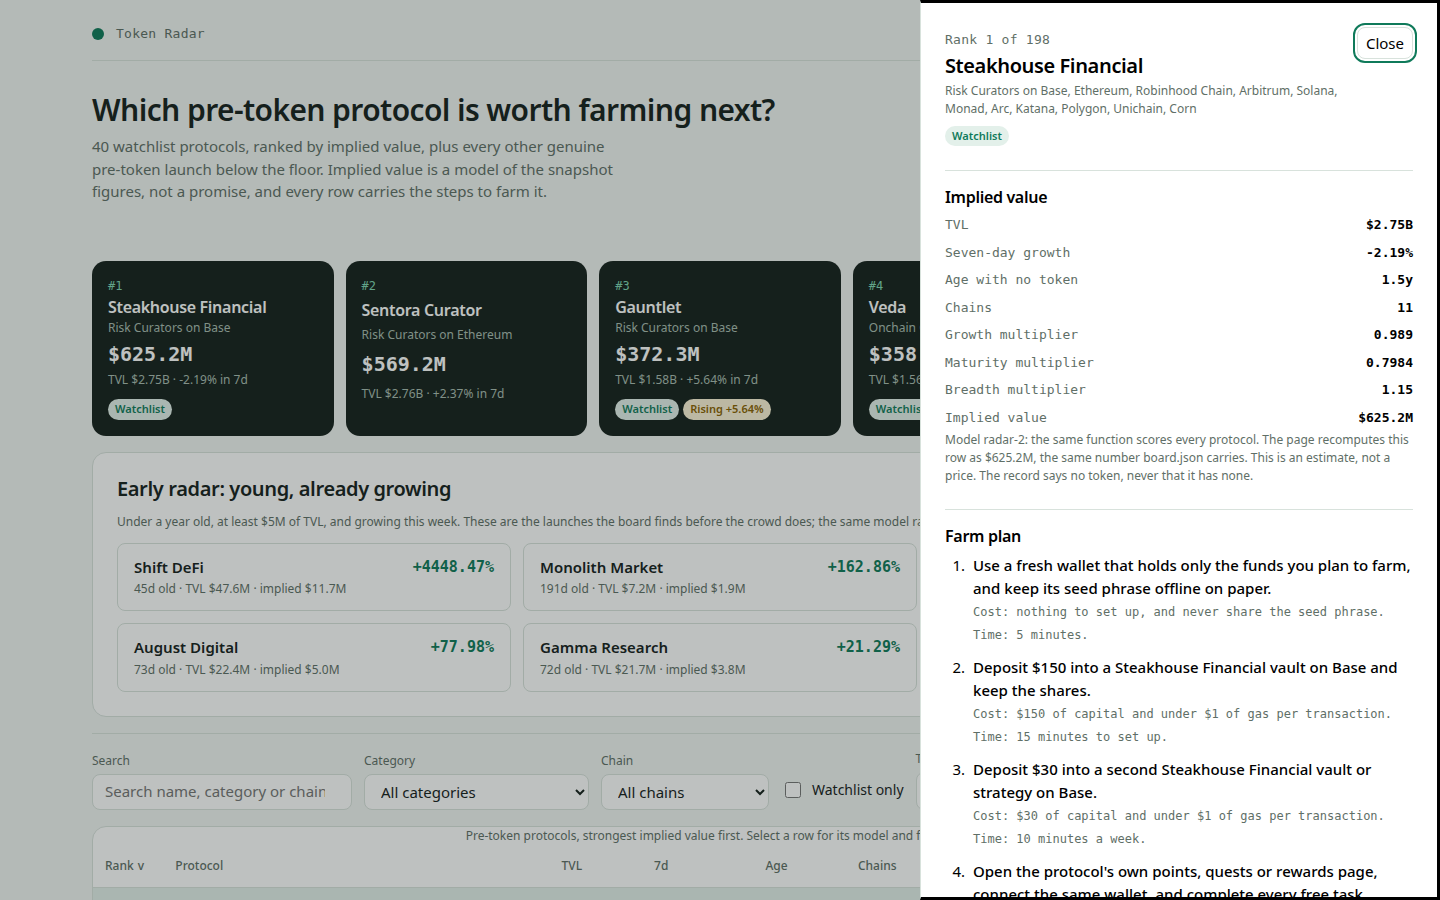
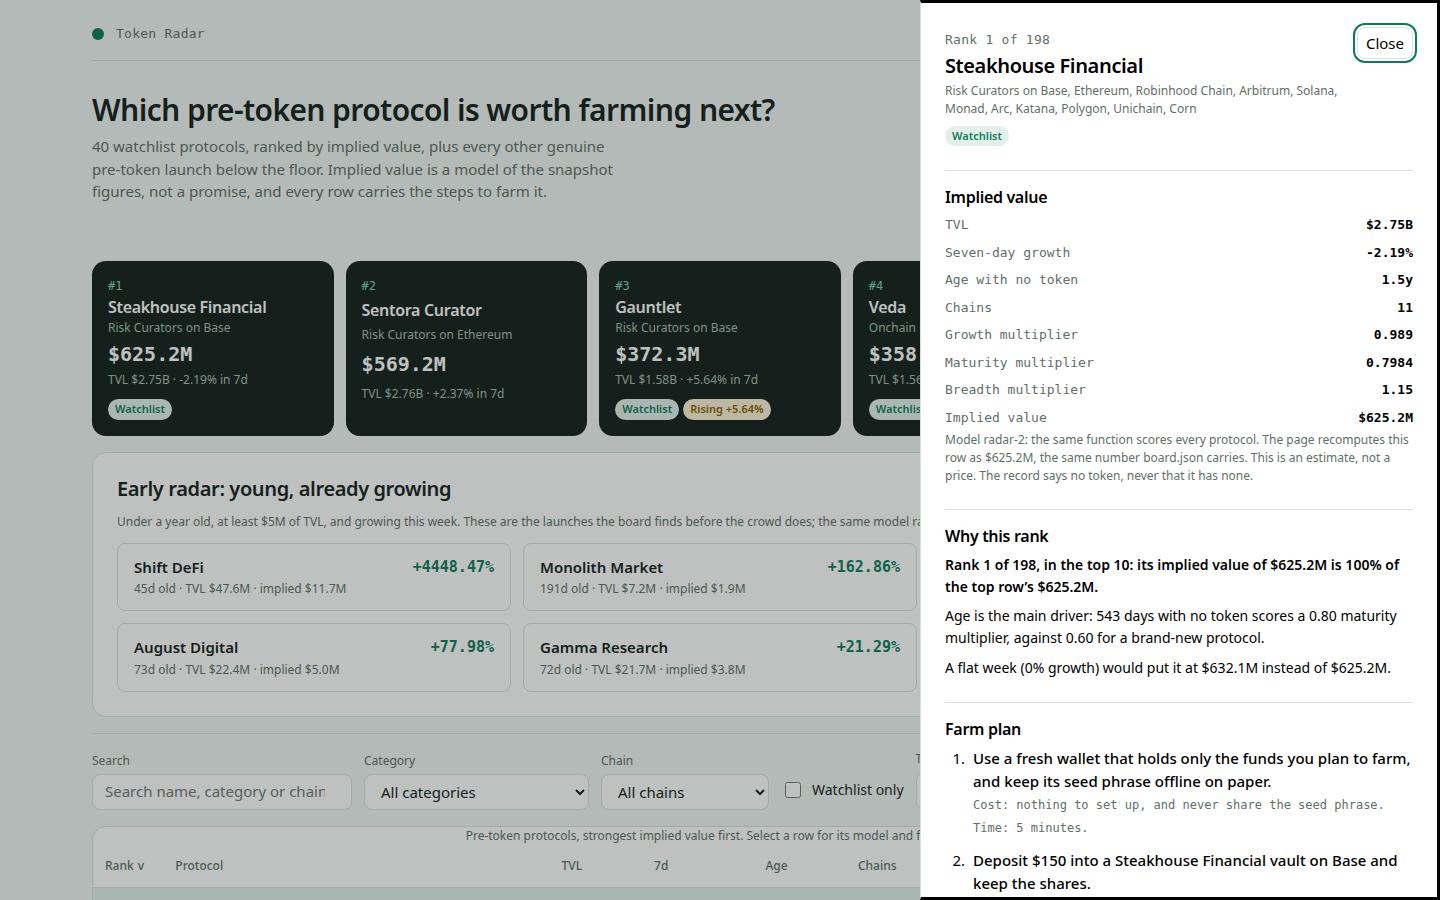
Rank story and fourth screenshot: explain each rank in the detail dialog
- lib/model.ts: add rankStory, the model's own derivation of why a row
  ranks where it does (position vs the top row, the multiplier furthest
  from its neutral point as the driver, and the flat-week counterfactual),
  plus usdShort for its figures. Scoring is untouched.
- dashboard/app.js: mirror rankStory in the page and show it as a
  'Why this rank' section in the detail dialog, between the implied
  value and the farm plan.
- dashboard/app.css: styles for the Why section.
- main.ts: note the rank story in the header; the screenshots error now
  asks for 3 or 4 images.
- screenshots/4-live.png: the live-token tab, taken from the real
  dashboard; 1-board, 2-detail and 3-filtered retaken from the new build.
  Board is byte-identical to the previous commit; all 7 local gate rows pass.

Changed region(s): [[0.6562, 0.5911, 0.9688, 1.0]]

diff --git a/lib/model.ts b/lib/model.ts
@@ -24,6 +24,12 @@
 // the longer, the more pent-up the launch. Chain breadth is how widely it is already distributed:
 // a protocol live on six chains reaches more farmers than one live on one. No protocol name is
 // ever special-cased: the same function scores every row, and the dashboard shows every factor.
+//
+// The model also explains each rank. rankStory turns one board row into plain sentences: where
+// the row sits against the top of the board, which of the three multipliers moves it most, and
+// what a flat week would do to its value. The dashboard mirrors that derivation in its own code
+// (dashboard/app.js), from the same row figures, so the story the reader sees is the model's own
+// arithmetic in words, never a hand-written note about a name.
 
 /** The snapshot's protocol entry: exactly the ten fields the sealed input carries. */
 export interface SnapshotProtocol {
@@ -202,6 +208,71 @@ export function impliedValue(protocol: SnapshotProtocol, asOf: string, model: Mo
   return { implied, growthPct, growthMult, maturityMult, breadthMult, age };
 }
 
+/** A dollar amount in the short form the board and the story use: $625.2M, $727K, $42. */
+export function usdShort(n: number): string {
+  if (!Number.isFinite(n)) return 'n/a';
+  if (Math.abs(n) >= 1e9) return `$${(n / 1e9).toFixed(2)}B`;
+  if (Math.abs(n) >= 1e6) return `$${(n / 1e6).toFixed(1)}M`;
+  if (Math.abs(n) >= 1e3) return `$${Math.round(n / 1e3)}K`;
+  return `$${Math.round(n)}`;
+}
+
+/**
+ * Why one board row ranks where it does, in plain sentences derived from the row's own figures.
+ * The story has three parts, and every number in it is recomputed here from the row, never typed
+ * in by hand:
+ *
+ * 1. Position: the rank against the board's size, and the row's implied value as a share of the
+ *    top row's. A reader who only reads this line knows whether the row leads the board or trails it.
+ * 2. Driver: of the three multipliers, the one furthest from its own neutral point is the
+ *    reason the row sits where it does: growth and breadth against 1.00, maturity against its
+ *    0.60 floor. The sentence states the direction the factor actually runs, so a maturity
+ *    below 1.00 is never called a lift.
+ * 3. Counterfactual: the value the same row would carry after a flat week, with growth set to 0,
+ *    which is the implied value divided by the growth multiplier. When growth already is flat the
+ *    sentence says so instead of inventing a change.
+ *
+ * The dashboard mirrors this function in plain JavaScript (dashboard/app.js rankStory), from the
+ * same row fields, so the story a reader sees in the detail dialog is this derivation, not a copy.
+ */
+export function rankStory(row: BoardRow, topImplied: number, boardSize: number): string[] {
+  const m = row.model;
+  const share = topImplied > 0 ? row.implied_value_usd / topImplied : 0;
+  const sharePct = Math.round(share * 100);
+  const place = row.rank <= 10 ? 'in the top 10' : row.rank * 4 <= boardSize ? 'in the top quarter' : row.rank * 2 <= boardSize ? 'in the top half' : 'in the lower half';
+  const first = `Rank ${row.rank} of ${boardSize}, ${place}: its implied value of ${usdShort(row.implied_value_usd)} is ${sharePct}% of the top row's ${usdShort(topImplied)}.`;
+  // Each multiplier's lift, each against its own neutral point: growth and breadth against 1.00
+  // (they can lift the value above its TVL base), maturity against its 0.60 floor (it never
+  // reaches 1.00, so what age adds is measured against a brand-new protocol, not against 1.00).
+  // The largest lift is the driver; the sentence then states it in the direction it actually runs.
+  const lifts = [
+    { name: 'growth', lift: m.growth_multiplier - 1 },
+    { name: 'maturity', lift: m.maturity_multiplier - 0.6 },
+    { name: 'breadth', lift: m.breadth_multiplier - 1 },
+  ];
+  let driver = lifts[0]!;
+  for (const l of lifts) if (Math.abs(l.lift) > Math.abs(driver.lift)) driver = l;
+  const liftPct = Math.round(Math.abs(driver.lift) * 100);
+  let second: string;
+  if (liftPct === 0) {
+    second = `No single factor lifts it: its value is its TVL base of ${usdShort(row.tvl_usd * m.base_multiple)}, with growth, age and breadth all near neutral.`;
+  } else if (driver.name === 'growth') {
+    const direction = m.growth_multiplier >= 1 ? 'lifts' : 'cuts';
+    second = `Seven-day growth is the main driver: ${Number(m.growth_pct.toFixed(2))}% this week ${direction} its value by ${liftPct}% over its TVL base.`;
+  } else if (driver.name === 'maturity') {
+    const ageText = m.age_days === null ? 'an unlisted age' : `${m.age_days} days with no token`;
+    second = `Age is the main driver: ${ageText} scores a ${m.maturity_multiplier.toFixed(2)} maturity multiplier, against 0.60 for a brand-new protocol.`;
+  } else {
+    second = `Chain breadth is the main driver: ${row.chains.length} chains lift its value by ${liftPct}% over its TVL base.`;
+  }
+  const flat = Math.max(1, Math.round(row.implied_value_usd / m.growth_multiplier));
+  const third =
+    m.growth_multiplier === 1
+      ? `A flat week would change nothing: its growth multiplier is already 1.00.`
+      : `A flat week (0% growth) would put it at ${usdShort(flat)} instead of ${usdShort(row.implied_value_usd)}.`;
+  return [first, second, third];
+}
+
 /** DefiLlama's version-marker rule: a name ending in a release is a pool of another protocol. */
 const VERSIONED = /\s(V\d+(\.\d+)?|v\d+(\.\d+)?|\d+\.\d+)$/;
 
@@ -253,7 +324,9 @@ export function buildBoard(snapshot: Snapshot, model: ModelConstants = MODEL): B
   const index = bySlug(snapshot.protocols);
   const chosen = new Map<string, SnapshotProtocol>();
   // The watchlist is the floor: every slug, even one the snapshot no longer carries (it cannot, but
-  // the board's coverage is the gate's row and is never gambled on a missing record).
+  // the board's coverage is the gate's row and is never gambled on a missing record). A watchlist
+  // slug is ranked whatever the rule says about it, because the gate's coverage row names the
+  // watchlist and the board must never miss one of its slugs.
   for (const slug of snapshot.watchlist) {
     const p = index.get(slug);
     if (p !== undefined) chosen.set(slug, p);

diff --git a/dashboard/app.js b/dashboard/app.js
@@ -1,9 +1,11 @@
 // Token Radar, radar-2 dashboard. It reads window.RADAR (written beside dashboard/ by main.ts)
 // and renders the ranked board, a top-5 spotlight, an early radar of young fast growers, a
-// filterable table, and a per-protocol detail dialog with the model's own inputs and the
-// protocol's farm plan. No network: every byte it shows is in data.js. The page recomputes each
-// row's implied value from the snapshot figures, so the page's code and the board's data are
-// visibly the same arithmetic; the farm plan is the same derivation main.ts writes to board.json.
+// filterable table, and a per-protocol detail dialog with the model's own inputs, a plain-words
+// story of why the row ranks where it does, and the protocol's farm plan. No network: every byte
+// it shows is in data.js. The page recomputes each row's implied value from the snapshot figures,
+// so the page's code and the board's data are visibly the same arithmetic; the farm plan is the
+// same derivation main.ts writes to board.json, and the rank story is the same derivation the
+// model states in lib/model.ts rankStory, mirrored here from the same row fields.
 (function () {
   'use strict';
 
@@ -37,6 +39,47 @@
     var maturity = model.maturity_floor + (Math.min(Math.max(age, 0), model.maturity_days) / model.maturity_days) * model.maturity_range;
     var breadth = 1 + Math.min(Math.max((row.chains || []).length - 1, 0), model.breadth_max_extra_chains) * model.breadth_step;
     return Math.max(1, Math.round(row.tvl_usd * model.base_multiple * growthMult * maturity * breadth));
+  }
+
+  // Why one row ranks where it does, in plain sentences recomputed from the row's own figures.
+  // This mirrors lib/model.ts rankStory, which states the same derivation in TypeScript: position
+  // against the top of the board, the multiplier furthest from 1.00 as the driver, and the value
+  // a flat week would leave. Nothing here is typed in by hand about a name: the same function
+  // tells the story of rank 1 and of rank 198, and the numbers it quotes are the row's.
+  function rankStory(row) {
+    var top = DATA.rows.length ? DATA.rows[0].implied_value_usd : 0;
+    var sharePct = top > 0 ? Math.round((row.implied_value_usd / top) * 100) : 0;
+    var place = row.rank <= 10 ? 'in the top 10' : row.rank * 4 <= DATA.board_size ? 'in the top quarter' : row.rank * 2 <= DATA.board_size ? 'in the top half' : 'in the lower half';
+    var first = 'Rank ' + row.rank + ' of ' + DATA.board_size + ', ' + place + ': its implied value of ' + fmtUsd(row.implied_value_usd) + ' is ' + sharePct + '% of the top row\u2019s ' + fmtUsd(top) + '.';
+    // Each multiplier's lift, each against its own neutral point: growth and breadth against
+    // 1.00 (they can lift the value above its TVL base), maturity against its 0.60 floor (it
+    // never reaches 1.00, so what age adds is measured against a brand-new protocol).
+    var lifts = [
+      { name: 'growth', lift: row.growth_multiplier - 1 },
+      { name: 'maturity', lift: row.maturity_multiplier - 0.6 },
+      { name: 'breadth', lift: row.breadth_multiplier - 1 }
+    ];
+    var driver = lifts[0];
+    lifts.forEach(function (l) { if (Math.abs(l.lift) > Math.abs(driver.lift)) driver = l; });
+    var liftPct = Math.round(Math.abs(driver.lift) * 100);
+    var second;
+    if (liftPct === 0) {
+      second = 'No single factor lifts it: its value is its TVL base of ' + fmtUsd(row.tvl_usd * DATA.model.base_multiple) + ', with growth, age and breadth all near neutral.';
+    } else if (driver.name === 'growth') {
+      var growthPct = Math.min(DATA.model.growth_cap, Math.max(DATA.model.growth_floor, row.change_7d === null || row.change_7d === undefined ? 0 : row.change_7d));
+      var direction = row.growth_multiplier >= 1 ? 'lifts' : 'cuts';
+      second = 'Seven-day growth is the main driver: ' + Math.round(growthPct * 100) / 100 + '% this week ' + direction + ' its value by ' + liftPct + '% over its TVL base.';
+    } else if (driver.name === 'maturity') {
+      var ageText = row.age_days === null || row.age_days === undefined ? 'an unlisted age' : row.age_days + ' days with no token';
+      second = 'Age is the main driver: ' + ageText + ' scores a ' + row.maturity_multiplier.toFixed(2) + ' maturity multiplier, against 0.60 for a brand-new protocol.';
+    } else {
+      second = 'Chain breadth is the main driver: ' + (row.chains || []).length + ' chains lift its value by ' + liftPct + '% over its TVL base.';
+    }
+    var flat = Math.max(1, Math.round(row.implied_value_usd / row.growth_multiplier));
+    var third = row.growth_multiplier === 1
+      ? 'A flat week would change nothing: its growth multiplier is already 1.00.'
+      : 'A flat week (0% growth) would put it at ' + fmtUsd(flat) + ' instead of ' + fmtUsd(row.implied_value_usd) + '.';
+    return [first, second, third];
   }
 
   function el(tag, attrs) {
@@ -423,6 +466,13 @@
         el('div', null, el('span', { text: 'Implied value' }), el('b', { class: 'num', text: fmtUsd(row.implied_value_usd) }))
       ),
       el('p', { class: 'sub', text: 'Model ' + DATA.model_version + ': the same function scores every protocol. The page recomputes this row as ' + fmtUsd(impliedOf(row, DATA.model)) + (impliedOf(row, DATA.model) === row.implied_value_usd ? ', the same number board.json carries.' : ', which differs from the board: the data would be stale.') + ' This is an estimate, not a price. The record says no token, never that it has none.' })
+    ));
+    // Why this row ranks where it does: the model's own story, recomputed from the row's figures.
+    // A reader who never reads the formula still learns which factor puts the row here, and what
+    // a flat week would do to it. The sentences are generated, never typed in about a name.
+    dialog.appendChild(el('section', { class: 'detail-section why' },
+      el('h3', { text: 'Why this rank' }),
+      el('div', { class: 'why-body' }, rankStory(row).map(function (s) { return el('p', { text: s }); }))
     ));
     dialog.appendChild(el('section', { class: 'detail-section' },
       el('h3', { text: 'Farm plan' }),

diff --git a/main.ts b/main.ts
@@ -6,7 +6,9 @@
 // Last, it writes /output/dossier.json, the summary the judge reads, with the vendored make.fun
 // library. The model ranks all 198 rankable protocols (the 40 watchlist protocols and every
 // rankable one below the floor), sets aside the 144 pre-token products of tokens that already
-// trade, and gives every ranked row a seven-step farm plan.
+// trade, and gives every ranked row a seven-step farm plan. The dashboard also tells, for each
+// row, why it ranks where it does: lib/model.ts rankStory derives that story from the row's own
+// figures, and dashboard/app.js mirrors it, so the story is the model's arithmetic in words.
 //
 // The dashboard is a static page, no framework and no network: dashboard/index.html, dashboard/app.css
 // and dashboard/app.js read /output/data.js, which this program writes from the same board.
@@ -73,7 +75,7 @@ function copyFiles(from: string, to: string): string[] {
 copyFiles(join(here, 'dashboard'), join(out, 'dashboard'));
 const shots = copyFiles(join(here, 'screenshots'), join(out, 'screenshots'));
 if (shots.length < 3) {
-  process.stderr.write(`token radar: screenshots/ holds ${shots.length} image${shots.length === 1 ? '' : 's'}: hand in 3, the board, a detail view and a filtered view\n`);
+  process.stderr.write(`token radar: screenshots/ holds ${shots.length} image${shots.length === 1 ? '' : 's'}: hand in 3 or 4, the board, a detail view, a filtered view and the live-token view\n`);
   process.exit(1);
 }
 for (const name of shots) {

diff --git a/dashboard/app.css b/dashboard/app.css
@@ -160,6 +160,10 @@ tbody tr[data-selected="true"] { background: var(--accent-soft); }
 .detail .sub { margin-top: var(--step-1); }
 .detail-section { margin-top: var(--step-5); padding-top: var(--step-4); border-top: 1px solid var(--border); }
 .detail-section h3 { margin-bottom: var(--step-2); }
+/* Why this rank: the model's story, in plain sentences, one paragraph each. */
+.why-body { display: grid; gap: var(--step-2); }
+.why-body p { font-size: 14px; line-height: 1.55; }
+.why-body p:first-child { font-weight: 600; }
 .equation { display: grid; gap: var(--step-2); font-family: var(--font-num); font-size: 13px; }
 .equation div { display: flex; justify-content: space-between; gap: var(--step-3); }
 .equation span { color: var(--muted); }
